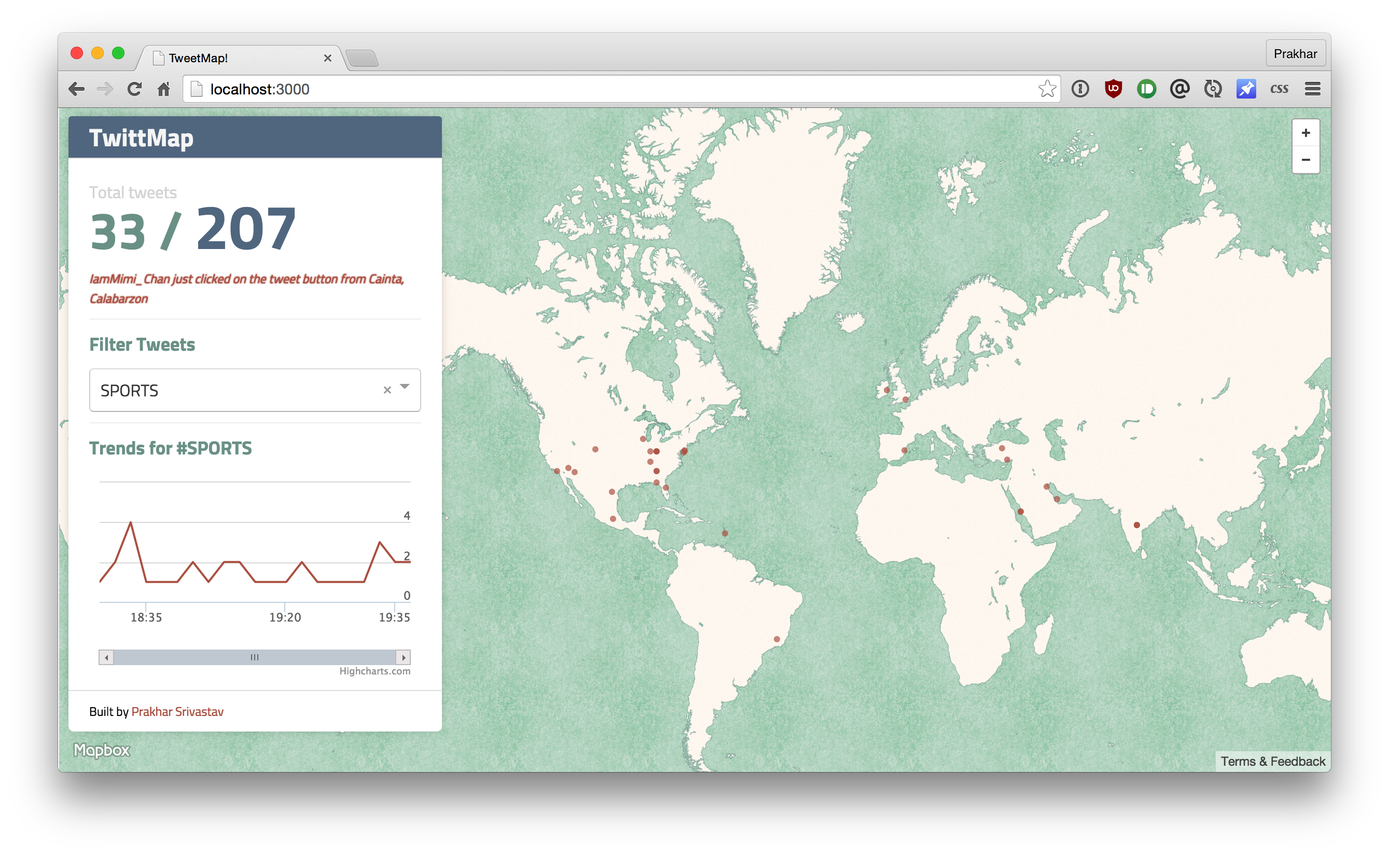
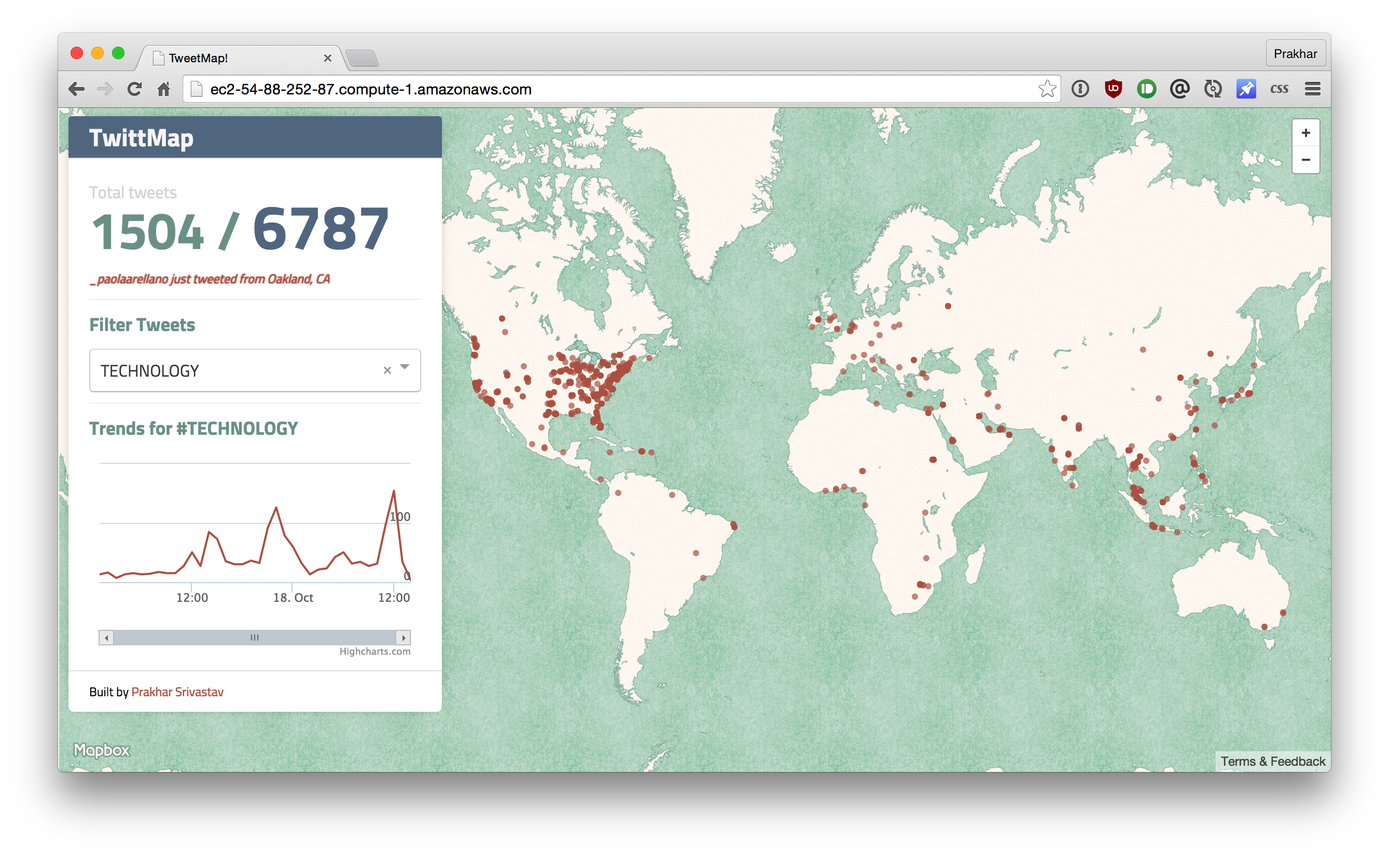
making it production ready

Changed region(s): [[0.031, 0.0928, 0.9608, 0.8975], [0.031, 0.4951, 0.217, 0.6189], [0.031, 0.1238, 0.062, 0.1547]]

diff --git a/twittMap/config.js b/twittMap/config.js
@@ -1,5 +1,11 @@
 module.exports = {
     rethinkdb: {
+        host: '172.31.59.233',
+        port: 28015,
+        db: 'twitter_streaming',
+        table: 'jstwitter',
+    },
+    rethinkdb_dev: {
         host: '127.0.0.1',
         port: 28015,
         db: 'twitter_streaming',
